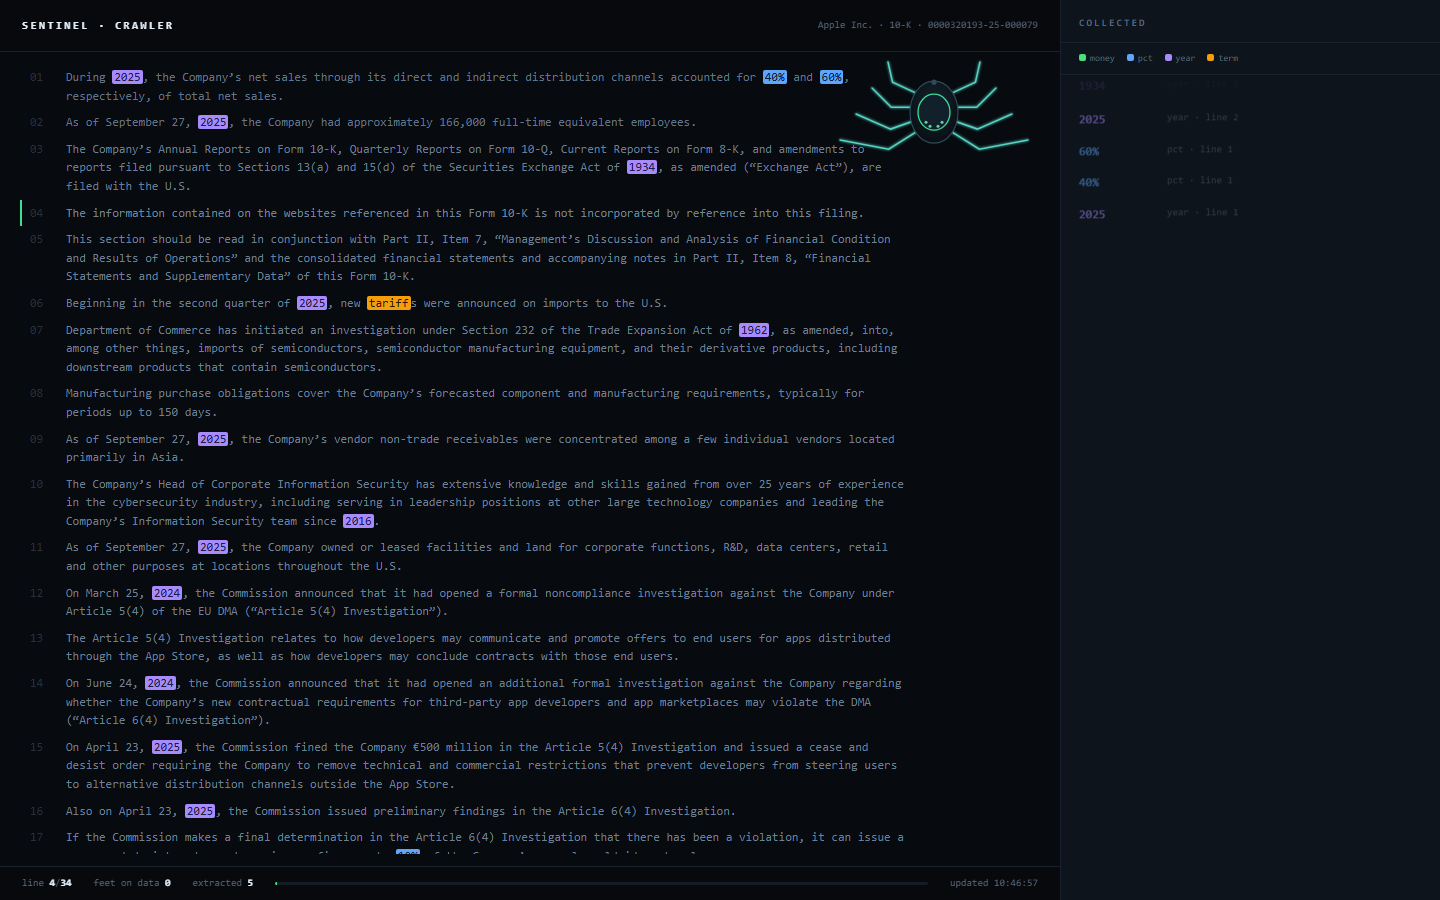
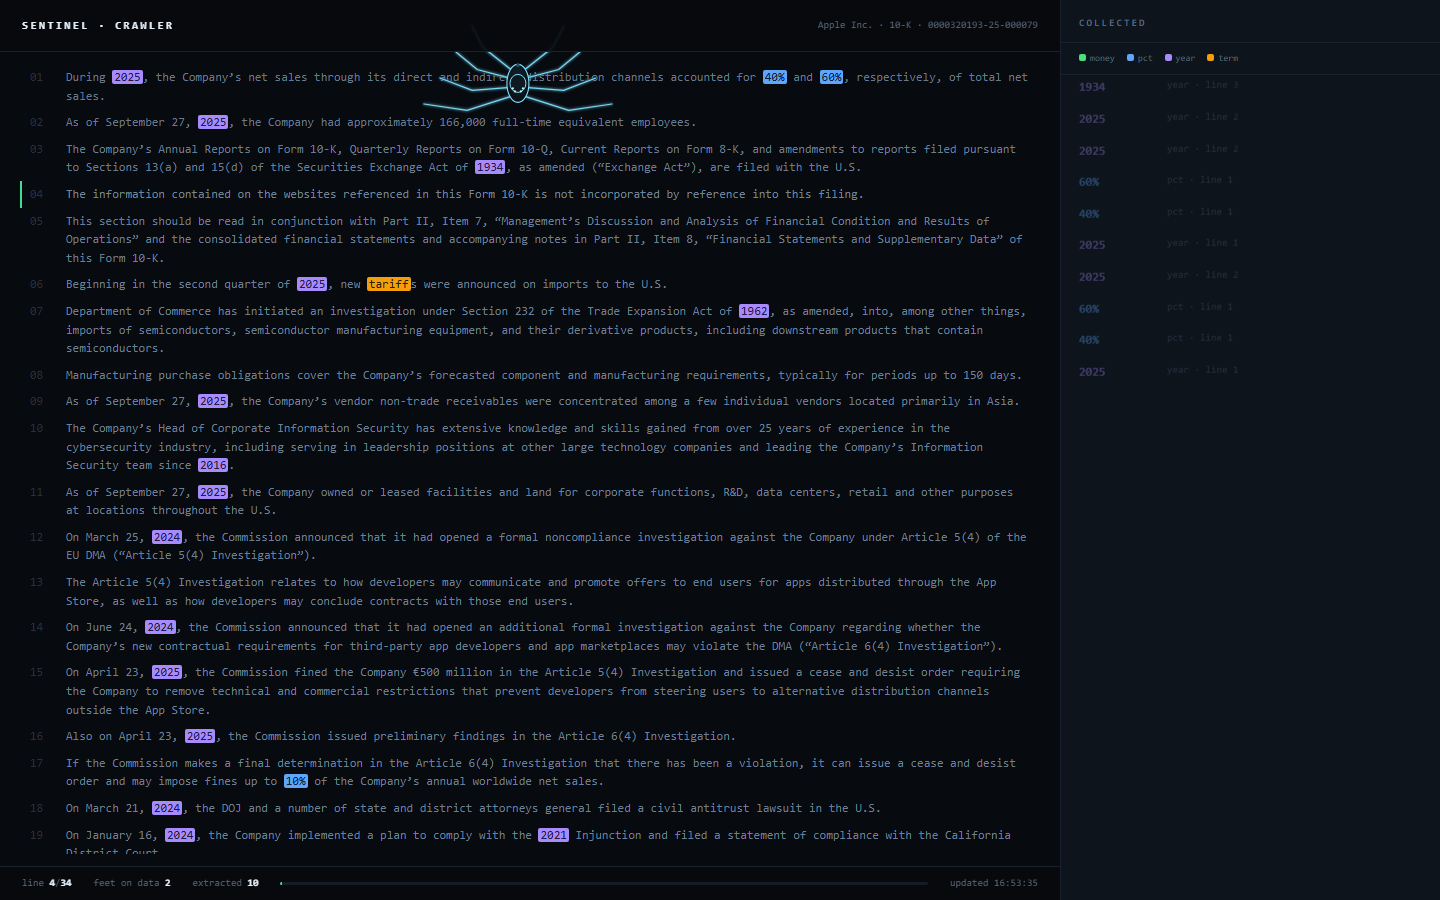
feat(viz): match the reference crawler composition
The spider is small and elongated, sits on the prose, and its eight thin limbs reach
highlights anywhere on the page rather than only the active line. Highlights carry foot
markers and a faint web joins them to each other.

Also: the page had been rendering from cache because the static server had died. The
server now starts detached, and renders use a fresh browser profile so a screenshot
cannot silently show stale bytes.

diff --git a/viz/crawler.html b/viz/crawler.html
@@ -17,7 +17,7 @@
   header .meta{color:var(--dim);font-size:10px}
   main{position:relative;padding:64px 20px 46px;overflow:hidden}
   .doc{position:relative;height:100%;overflow:hidden}
-  .line{position:relative;padding:4px 128px 4px 44px;color:#6c7f93;border-left:2px solid transparent;
+  .line{position:relative;padding:4px 10px 4px 44px;color:#6c7f93;border-left:2px solid transparent;
     transition:color .3s,background .3s}
   .line.seen{color:#3f4d5c}
   .line.active{color:var(--lit);background:#0e1a24;border-left-color:var(--accent)}
@@ -109,6 +109,7 @@ var spider = { x:0, y:0, tx:0, ty:0, legs:[], parts:{} };
 
 function buildSpider() {
   svg.innerHTML = '';
+  spider.parts = {};
   var defs = el('defs', {});
   defs.innerHTML =
     '<radialGradient id="ab" cx="50%" cy="38%" r="66%"><stop offset="0%" stop-color="#16242f"/>' +
@@ -120,9 +121,9 @@ function buildSpider() {
   spider.legs = [];
   for (var i = 0; i < 8; i++) {
     spider.legs.push({
-      path: el('path', { fill:'none', stroke:'#0a1017', 'stroke-width':'4.2', 'stroke-linecap':'round' }),
-      leg:  el('path', { fill:'none', stroke:'#5eead4', 'stroke-width':'1.5', 'stroke-linecap':'round',
-                         opacity:'0.9', filter:'url(#soft)' }),
+      path: el('path', { fill:'none', stroke:'#0a1017', 'stroke-width':'2.6', 'stroke-linecap':'round', opacity:'0.85' }),
+      leg:  el('path', { fill:'none', stroke:'#7fe3ff', 'stroke-width':'1.25', 'stroke-linecap':'round',
+                         opacity:'0.95', filter:'url(#soft)' }),
       side: i < 4 ? -1 : 1, idx: i % 4,
       foot:{x:0,y:0}, target:{x:0,y:0}, from:{x:0,y:0}, t:1, dur:240, delay:0, startedAt:0
     });
@@ -130,12 +131,12 @@ function buildSpider() {
 
   var body = el('g', {});
   spider.parts.body = body;
-  spider.parts.abdomen = el('ellipse', { rx:'24', ry:'31', fill:'url(#ab)', stroke:'#2f4a5a', 'stroke-width':'1.2' }, body);
-  spider.parts.head = el('ellipse', { rx:'16', ry:'18', fill:'#12202b', stroke:'#3ddc97', 'stroke-width':'1.3' }, body);
-  [[-4,14],[4,14],[-8,10],[8,10]].forEach(function (p) {
-    el('circle', { cx:p[0], cy:p[1], r:'1.5', fill:'#6ee7b7', opacity:'0.9' }, body);
+  spider.parts.abdomen = el('ellipse', { rx:'11', ry:'19', fill:'url(#ab)', stroke:'#7fe3ff', 'stroke-width':'1.1' }, body);
+  spider.parts.head = el('ellipse', { rx:'8', ry:'9', fill:'#0e1a22', stroke:'#7fe3ff', 'stroke-width':'1' }, body);
+  [[-3,8],[3,8],[-5,5],[5,5]].forEach(function (p) {
+    el('circle', { cx:p[0], cy:p[1], r:'1.1', fill:'#c7f9ff', opacity:'0.95' }, body);
   });
-  el('circle', { cx:'0', cy:'-30', r:'2.6', fill:'#2f4a5a' }, body);
+  el('circle', { cx:'0', cy:'-18', r:'1.8', fill:'#2f4a5a' }, body);
 }
 
 function hip(leg) { return { x: spider.x + leg.side * 7, y: spider.y - 14 + leg.idx * 9 }; }
@@ -151,9 +152,9 @@ function footPath(leg, foot) {
   var len = Math.hypot(dx, dy) || 1;
   var ux = dx / len, uy = dy / len;
   // knee sits out along the leg, pushed away from the body and lifted
-  var kneeOut = 22 + leg.idx * 3;
-  var kx = h.x + ux * len * 0.5 + (-uy) * kneeOut * leg.side;
-  var ky = h.y + uy * len * 0.5 + (ux) * kneeOut * leg.side - 14;
+  var kneeOut = 10 + leg.idx * 2;
+  var kx = h.x + ux * len * 0.52 + (-uy) * kneeOut * leg.side;
+  var ky = h.y + uy * len * 0.52 + (ux) * kneeOut * leg.side - 6;
   return 'M' + h.x + ',' + h.y + ' L' + kx + ',' + ky + ' L' + foot.x + ',' + foot.y;
 }
 
@@ -171,15 +172,49 @@ function setFootTarget(leg, target, delay, now) {
   leg.target = target; leg.t = 0; leg.delay = delay || 0; leg.startedAt = now || performance.now();
 }
 
-function anchorsFor(lineIdx) {
-  var row = document.getElementById('line-' + lineIdx);
-  if (!row) return [];
+function anchorsAround(lineIdx, radius) {
   var host = docEl.getBoundingClientRect();
-  return Array.prototype.map.call(row.querySelectorAll('[data-span]'), function (m) {
-    var r = m.getBoundingClientRect();
-    var s = DATA.spans[Number(m.getAttribute('data-span'))];
-    return { x: r.left - host.left + r.width / 2, y: r.top - host.top + r.height / 2, span: s };
+  var out = [];
+  for (var i = lineIdx - radius; i <= lineIdx + radius; i++) {
+    var row = document.getElementById('line-' + i);
+    if (!row) continue;
+    Array.prototype.forEach.call(row.querySelectorAll('[data-span]'), function (m) {
+      var r = m.getBoundingClientRect();
+      if (r.width === 0) return;
+      var sp = DATA.spans[Number(m.getAttribute('data-span'))];
+      out.push({ x: r.left - host.left + r.width / 2, y: r.top - host.top + r.height / 2, span: sp });
+    });
+  }
+  out.sort(function (a, b) { return (a.y - b.y) || (a.x - b.x); });
+  return out;
+}
+
+// A web between the highlights themselves, not only from the body. The reference image
+// shows the legs and the strands forming one network, which is what makes it read as a
+// crawler rather than a pin with strings.
+function drawFeet(anchors) {
+  var g = spider.parts.feet;
+  if (!g) return;
+  g.innerHTML = '';
+  anchors.forEach(function (a) {
+    el('circle', { cx: a.x, cy: a.y, r: '2.6', fill: KIND[a.span.kind], stroke: '#050a0e',
+                   'stroke-width': '0.8' }, g);
+    el('circle', { cx: a.x, cy: a.y, r: '6', fill: 'none', stroke: KIND[a.span.kind],
+                   'stroke-width': '0.9', opacity: '0.45' }, g);
   });
+}
+
+function drawWeb(anchors) {
+  var g = spider.parts.web;
+  if (!g) return;
+  g.innerHTML = '';
+  for (var i = 0; i < anchors.length - 1; i++) {
+    var a = anchors[i], b = anchors[i + 1];
+    if (Math.abs(a.y - b.y) > 120) continue;
+    var mid = { x: (a.x + b.x) / 2, y: (a.y + b.y) / 2 - 16 };
+    el('path', { d: 'M' + a.x + ',' + a.y + ' Q' + mid.x + ',' + mid.y + ' ' + b.x + ',' + b.y,
+                 fill: 'none', stroke: '#7fe3ff', 'stroke-width': '0.8', opacity: '0.34' }, g);
+  }
 }
 
 function collect(a) {
@@ -206,19 +241,17 @@ function moveToLine(i) {
 
   var host = docEl.getBoundingClientRect();
   var r = row.getBoundingClientRect();
-  spider.ty = Math.max(96, Math.min(host.height - 64, r.top - host.top + r.height / 2));
-  spider.tx = Math.max(80, host.width - 62);
+  spider.ty = Math.max(40, Math.min(host.height - 40, r.top - host.top + r.height / 2));
+  spider.tx = host.width * 0.52;
 
-  var anchors = anchorsFor(i);
-  var front = spider.legs.filter(function (l) { return l.idx < 2; });
+  var anchors = anchorsAround(i, 1);
   var now = performance.now();
-  front.forEach(function (leg, k) {
+  drawWeb(anchors); drawFeet(anchors);
+  spider.legs.forEach(function (leg, k) {
     if (!anchors.length) { setFootTarget(leg, restFoot(leg), 40 * k, now); return; }
     var a = anchors[k % anchors.length];
-    setFootTarget(leg, { x: a.x, y: a.y }, 70 * k, now);
-  });
-  spider.legs.filter(function (l) { return l.idx >= 2; }).forEach(function (leg, k) {
-    setFootTarget(leg, restFoot(leg), 50 * k, now);
+    var jx = (k % 3 - 1) * 7, jy = k < 4 ? -3 : 3;
+    setFootTarget(leg, { x: a.x + jx, y: a.y + jy }, 55 * k, now);
   });
 
   anchors.slice(0, 4).forEach(function (a, k) { setTimeout(function () { collect(a); }, 340 + k * 130); });
@@ -254,8 +287,8 @@ function begin() {
   if (!DATA) return;
   renderDoc(DATA);
   buildSpider();
-  spider.x = spider.tx = Math.max(80, docEl.getBoundingClientRect().width - 62);
-  spider.y = spider.ty = 96;
+  spider.x = spider.tx = docEl.getBoundingClientRect().width * 0.52;
+  spider.y = spider.ty = 60;
   spider.legs.forEach(function (l) { l.foot = restFoot(l); l.t = 1; });
   placeBody();
   collected = 0; itemsEl.innerHTML = ''; document.getElementById('f-items').textContent = '0';

diff --git a/BUILD-LOG.md b/BUILD-LOG.md
@@ -501,3 +501,17 @@ Three rendering defects were caught by screenshotting rather than by reading the
 the SVG had no intrinsic size and defaulted to 300x150, the leg control points inverted
 and drew loops through the body, and the text ran underneath the animal until the line
 padding reserved a column for it.
+
+### Phase 6c — Matching the reference composition (2026-10-22)
+
+Reworked to match the crawler aesthetic in the reference: the animal is small and
+elongated, sits **on** the prose rather than beside it, and its eight thin limbs reach
+anywhere on the page rather than only the current line. Highlights get foot markers, and
+a faint web connects the highlights to each other so the whole thing reads as a network
+rather than a pin with strings.
+
+One operational lesson: the first three renders were byte-identical because the static
+server had died and the browser was showing a cached copy. The file on disk was correct
+the whole time. Screenshots are only evidence if the bytes under them actually moved —
+so the server is now started detached, and the page is re-rendered with a fresh browser
+profile when verifying.
